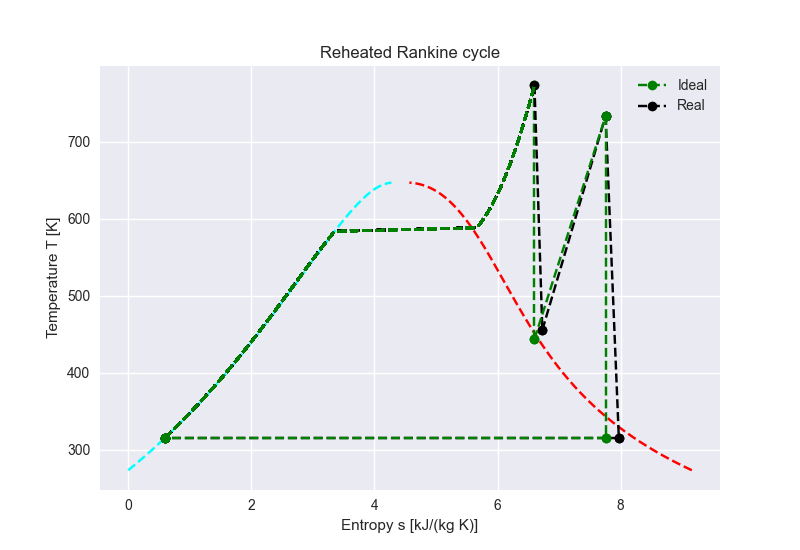
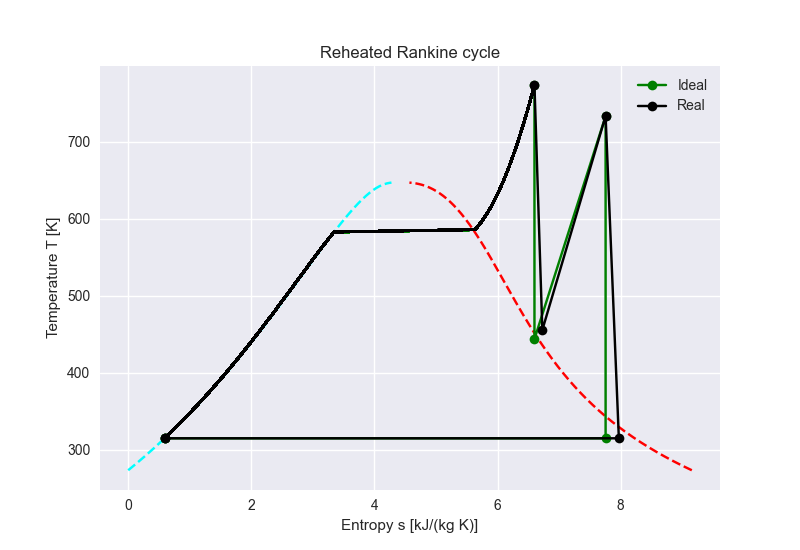
Finished

diff --git a/practica1.py b/practica1.py
@@ -309,7 +309,7 @@ def reheat_Rankine(fluid=fluid, p1=p1re, p2=p2re, p3=p3re, x1=x1, t1=t1re,
 
 
 	data = [State_1, State_2, State_3, State_4, State_5, State_6]
-	reheated_df = pd.DataFrame(data=data, index=['State_1', 'State_2', 'State_3', 'State_4', 'State_5', 'State_6'],
+	reheated_df = pd.DataFrame(data=data, index=['State 1', 'State 2', 'State 3', 'State 4', 'State 5', 'State 6'],
 		columns=['T [K]','P [MPa]', 'h [kJ/kg]', 's [kJ/(kg K)]','x [p.u]'])
 
 	W_t = (h1re - h2re) + (h3re - h4re)
@@ -360,8 +360,8 @@ def water_curve():
 
 def plot_cycle(cycle):
 
-	id_df = cycle[0]
-	re_df = cycle[2]
+	id_df = cycle()[0]
+	re_df = cycle()[2]
 	index = id_df.columns.values
 	T_id = id_df[index[0]]
 	s_id = id_df[index[3]]
@@ -386,12 +386,14 @@ def plot_cycle(cycle):
 	plt.plot(S_re_last,T_re_last,'-k')
 	plt.plot(s_re, T_re, '-ok', label='Real')
 	plt.legend()
-	plt.title(cycle[-1])
+	plt.title(cycle()[-1])
 	plt.xlabel('Entropy s [kJ/(kg K)]')
 	plt.ylabel('Temperature T [K]')
 
 
 
+plot_cycle(cycle=reheat_Rankine)
+plt.show()
 
 	
 
@@ -445,7 +447,7 @@ print(reheat_Rankine()[3])
 
 
 #Here I can plot the cycles
-# cycles = [Rankine_cycle(), overheated_Rankine(), reheat_Rankine()]
+# cycles = [Rankine_cycle, overheated_Rankine, reheat_Rankine]
 # for cycle in cycles:
 # 	print(plot_cycle(cycle=cycle))
 #plt.show()
@@ -453,9 +455,9 @@ print(reheat_Rankine()[3])
 
 
 #Saving all the excels
-cycles = [Rankine_cycle, overheated_Rankine, reheat_Rankine]
-for cycle in cycles:
-	Saving_data(cycle=cycle)
+#cycles = [Rankine_cycle, overheated_Rankine, reheat_Rankine]
+#for cycle in cycles:
+#	Saving_data(cycle=cycle)
 
 
 
